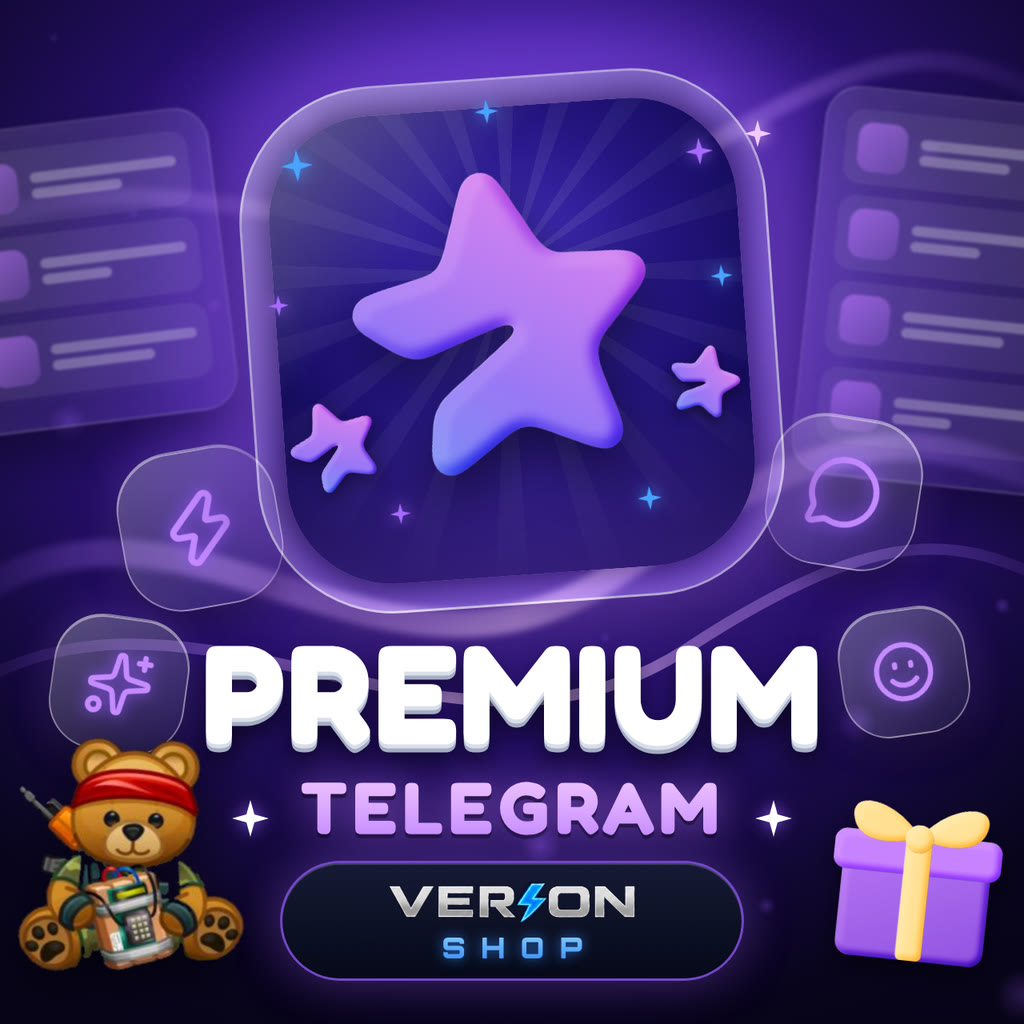
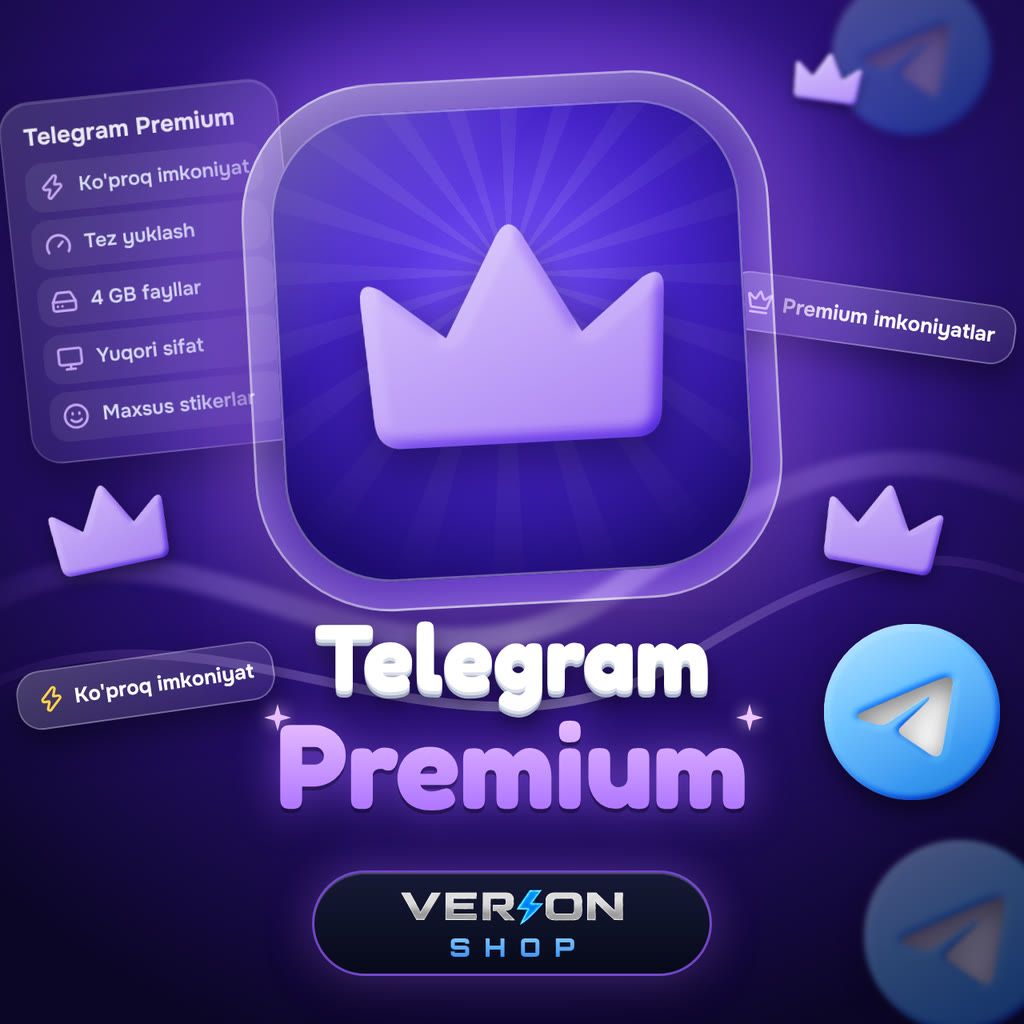
v3.28: Stars, Premium, Steam va Sovg'a muqovalari har biri o'z mavzusida alohida
Claude-Session: https://claude.ai/code/session_01CbtuoV2biNfcxKy98shqWf

diff --git a/README.md b/README.md
@@ -369,7 +369,7 @@ Ko'rinishi ilova mavzusidan qat'i nazar doim to'q: grafit fon, Unbounded (sarlav
 - **v3.19 — bosh sahifa kartalari «tirik»:** har bir bo'lim kartasida (a) rasm juda sekin yaqinlashadi, (b) 12 soniyalik aylanishda navbat bilan bitta kartada yumshoq och-ko'k yorug'lik chizig'i aylanib chiqadi (hamma kartada bir xil rang), (c) pastda yashil «Sotib olish» tugmasi (`ctaBtn()`: yaltirash, oq doira ichida harakatlanuvchi strelka, yonayotgan kartada halqa), (d) bosilganda bosilgan joydan to'lqin (`pripple`), (e) mahsulot soni yonida yashil «mavjud» nuqtasi. Nakrutka kartasida faqat mahsulot soni (yuklanguncha «…», xato bo'lsa eski izoh; `NkHomeFail`). Hammasi faqat `transform`/`opacity`; «Kamroq harakat» (`data-reduce-motion`), `prefers-reduced-motion` va `.lite` rejimida o'chadi (ilgari bu ro'yxat keyingi `@media` qoidasi bilan qo'shilib qolib, sozlama ishlamas edi — tuzatildi). Bo'lim kartalarining rasmlari (1024×1024) admin paneldan ✏ orqali yuklanadi.
 - **v3.20 — Telegram Premium: kimga olishni tanlash + «Balans yetarli emas» oynasi:** `fulfill:"fragment_premium"` mahsulotlari endi alohida oqim (`openPremiumBuy`) orqali sotiladi: tepada Premium kartasi, `@USERNAME` + «Tekshirish» (`/api/fragment/check-user`, «O'zimga» tugmasi), tekshirilgach yashil karta (ism, @username, «O'zgartirish»); qabul qiluvchida Premium allaqachon bo'lsa — sariq ogohlantirish va xarid bloklanadi; paketlar (3/6/12 oy) kartochkalarda tanlanadi. Xarid yangi `POST /api/buy-premium {itemId, username}` orqali: eski `/api/buy` Premium'ni faqat xaridorning o'ziga yuborar edi. Pul `reserveBalance` bilan band qilinadi, Fragment aniq rad etsa qaytariladi, aloqa uzilsa buyurtma «kutilmoqda» bo'ladi; «allaqachon Premium» javobi `409 already_premium` (adminga signal ketmaydi). Telegram bo'limida bir nechta Premium paketi BITTA «Telegram Premium» kartasiga jamlanadi (`productGridHTML`). Balans yetmasa hamma xarid oqimlarida (Premium, Stars, sovg'a, oddiy mahsulot) bitta oyna chiqadi (`openNeedBalance`): mahsulot narxi / balans / yetishmaydi + pastda «Yopish» va «Balansni to'ldirish» (to'lov sahifasi yetishmagan summa bilan ochiladi). Mahsulot oynalari endi to'liq ekranli sahifa (`openSheet(inner,backFn,{full:true})`: tepada «Orqaga», pastda qotgan harakat paneli `.fbar`): oddiy mahsulot, tasdiqlash, Stars, sovg'a, Premium va o'yin tasdiqlash. «Balans yetarli emas» endi mustaqil qatlam (`#nbOv`, `openNeedBalance(price)`): sahifa ostida joyida qoladi; oddiy mahsulot, o'yin, Stars, sovg'a, Premium, Nakrutka, Steam, virtual raqam va skinlarda bir xil chiqadi. Stars, Premium va sovg'ada «O'zimga» ingichka tugma (`.selfBtn`, `selfBtnHTML`). Premium paketlari katalogda bo'lishi uchun admin «Oddiy mahsulot» → «Yetkazish turi: Avto-Premium (Fragment)» bilan 3/6/12 oylik mahsulot qo'shadi.
 - **v3.22 — tayyor mahsulot muqovalari:** `assets/cover-*.jpg` (1024×1024; Stars, Premium, Sovg'alar, Virtual raqam, Steam, Gemini Pro, CS2, Dota 2, Rust) — bitta uslubda (shisha plitka, 3D markaziy narsa, ikki rangli sarlavha, pastda VERION SHOP). Admin rasm qo'ymagan joylarda ilova ularni o'zi ko'rsatadi: Virtual raqam, Steam, CS2/Dota 2/Rust kartalari (`DEF_COVER`, `cardImg()`; admin qo'ygan rasm doim ustun — `cardImgSet()`), Stars (`fragment_stars_custom`) va Premium (`fragment_premium`) mahsulot plitkasi (`tileHTML`). Admin qo'ygan rasm bo'lsa o'sha ko'rinadi: yangi muqovani almashtirish uchun mahsulotdagi ✏ → rasm. Muqovalar ilova ichidagi haqiqiy ekran (Virtual raqam telefon ichida), rasmiy Stars/Steam/Gemini belgilari va 3D emoji bilan yasalgan, tashqi servislarsiz.
-- **v3.23 — bo'lim kartalari va /start rasmi yangi uslubda:** `assets/cover-cat-{obuna,oyinlar,telegram,nakrutka}.jpg` (haqiqiy ilova belgilari shisha plitkada) — bosh sahifadagi bo'lim kartasiga admin rasm qo'ymagan bo'lsa shu chiqadi (`catDefCover`); admin qo'ygan rasm ustun. Eski rasm (matni kesilib qolgan) o'rniga yangisini qo'yish: Mahsulotlar → «🗂 Bo'limlar: nomi va rasmi» → rasm yonidagi ✕ (tayyor muqova o'zi chiqadi) yoki `cover-cat-*.jpg` ni yuklash. `assets/start-banner.png` (botdagi /start rasmi) shu uslubga o'tkazildi (server uni `size-mtime` bo'yicha qayta yuklaydi). Ismi emoji bilan boshlangan foydalanuvchining avatar harfi «�» bo'lib chiqmaydi (`firstCh`). Muqovalar skinlar bilan bir xil yasash usulida: lenta endi sarlavhani kesib o'tmaydi. Mahsulot sahifasining tepasidagi rasm endi kesilmaydi: butun muqova ko'rinadi, orqasida uning xira nusxasi (`.bgb`). Premium muqovasi rasmiy Telegram Premium yulduzi shaklida (swoosh) va rasmiy binafsha→pushti gradient bilan, Sovg'alar muqovasida haqiqiy Telegram sovg'asi (ayiqcha), Stars'da rasmiy sharlar uslubi. Steam va Gemini muqovalari rasmiy belgilar bilan (Steam: ko'k gradientli disk + oq belgi, `assets/steam.svg` — Steam sahifasining tepasida ham shu; Gemini: rasmiy shakl va ranglar). Muqovalardan emoji olib tashlandi: pastki burchaklarda haqiqiy Telegram sovg'a ayiqchasi va o'zim chizgan 3D sovg'a qutilari/yuraklar/sharlar/suhbat bulutlari (SVG shakl + yorug'lik filtri), Gemini'da rasmiy yulduzcha nusxalari. «Tayyor muqovalar» sozlamasi (standart: yoqilgan; `extras.covers`, admin: Mahsulotlar → 🖼): yoqilgan bo'lsa ilovaga o'rnatilgan muqovalar admin yuklagan rasmlardan USTUN (Stars, Premium, Sovg'a, Gemini Pro, Virtual raqam, Steam, skinlar va 4 ta bo'lim kartasi); o'chirilsa — admin rasmi ko'rinadi (`ownCovers()`, `builtinCoverFor()`). Botning standart /start matni tuzilgan ro'yxatga o'tkazildi (admin o'z matnini yozgan bo'lsa — o'sha ishlaydi).
+- **v3.23 — bo'lim kartalari va /start rasmi yangi uslubda:** `assets/cover-cat-{obuna,oyinlar,telegram,nakrutka}.jpg` (haqiqiy ilova belgilari shisha plitkada) — bosh sahifadagi bo'lim kartasiga admin rasm qo'ymagan bo'lsa shu chiqadi (`catDefCover`); admin qo'ygan rasm ustun. Eski rasm (matni kesilib qolgan) o'rniga yangisini qo'yish: Mahsulotlar → «🗂 Bo'limlar: nomi va rasmi» → rasm yonidagi ✕ (tayyor muqova o'zi chiqadi) yoki `cover-cat-*.jpg` ni yuklash. `assets/start-banner.png` (botdagi /start rasmi) shu uslubga o'tkazildi (server uni `size-mtime` bo'yicha qayta yuklaydi). Ismi emoji bilan boshlangan foydalanuvchining avatar harfi «�» bo'lib chiqmaydi (`firstCh`). Muqovalar skinlar bilan bir xil yasash usulida: lenta endi sarlavhani kesib o'tmaydi. Mahsulot sahifasining tepasidagi rasm endi kesilmaydi: butun muqova ko'rinadi, orqasida uning xira nusxasi (`.bgb`). Premium muqovasi rasmiy Telegram Premium yulduzi shaklida (swoosh) va rasmiy binafsha→pushti gradient bilan, Sovg'alar muqovasida haqiqiy Telegram sovg'asi (ayiqcha), Stars'da rasmiy sharlar uslubi. Steam va Gemini muqovalari rasmiy belgilar bilan (Steam: ko'k gradientli disk + oq belgi, `assets/steam.svg` — Steam sahifasining tepasida ham shu; Gemini: rasmiy shakl va ranglar). Muqovalardan emoji olib tashlandi: pastki burchaklarda haqiqiy Telegram sovg'a ayiqchasi va o'zim chizgan 3D sovg'a qutilari/yuraklar/sharlar/suhbat bulutlari (SVG shakl + yorug'lik filtri), Gemini'da rasmiy yulduzcha nusxalari. «Tayyor muqovalar» sozlamasi (standart: yoqilgan; `extras.covers`, admin: Mahsulotlar → 🖼): yoqilgan bo'lsa ilovaga o'rnatilgan muqovalar admin yuklagan rasmlardan USTUN (Stars, Premium, Sovg'a, Gemini Pro, Virtual raqam, Steam, skinlar va 4 ta bo'lim kartasi); o'chirilsa — admin rasmi ko'rinadi (`ownCovers()`, `builtinCoverFor()`). Stars, Premium, Steam va Sovg'a muqovalari har biri o'z mavzusida alohida: o'qiladigan shisha panel (Stars paketlari, Premium imkoniyatlari, Steam menyusi, sovg'alar to'plami), mavzuga mos 3D narsalar (yulduzlar, tojlar, o'yin tutqichi va Steam o'yin rasmlari, ayiqcha), ikki qatorli sarlavha «Telegram / Stars». Botning standart /start matni tuzilgan ro'yxatga o'tkazildi (admin o'z matnini yozgan bo'lsa — o'sha ishlaydi).
 - **v3.24 — xarid oynalari: har bir mahsulotga mos, ixcham va aniq dizayn:** umumiy bo'laklar (`pheadHTML` ixcham sarlavha: kichik rasm + nom + narx/belgi, `pstepHTML` raqamli bosqichlar, `descHTML` tartibli tavsif, `.rcpt` chek kartasi). Oddiy mahsulot/obuna: tavsif qismlarga bo'linadi (✅ ro'yxat, ⚠ sariq ogohlantirish, 📌 eslatma), qolgan soni yashil belgi. Stars: 1) qabul qiluvchi 2) miqdor + tez tanlov tugmalari (50…2500, narxi bilan). Premium: paketlar qator bo'lib, oyiga narxi va tejash foizi (−22%) bilan, sarlavhada rasmiy Premium muqovasi. Sovg'a: 1) kimga 2) sharh; sovg'alar sahifasida «Sotib olish» pastki menyu ustida qotib turadi. Tasdiqlash oynalari (oddiy mahsulot va o'yin) bitta «chek» ko'rinishida: narx, balans, qoladi/yetmaydi. O'yin paketlarida «2x»/«HIT» belgisi va nom kesilmaydi. Nakrutka buyurtmasi to'liq ekran (havola, miqdor, jami, pastda tugma). Steam sahifasi ixcham (summa tugmalari birinchi ekranda). Mantiq va identifikatorlar (#stBuy, #pmBuy, #afterLine, data-pk…) o'zgarmagan.
 - **Profil:** yon panel — avatar (80px), ism, @username · ID, ko'k balans kartasi va «Balansni to'ldirish», menyu (Profil, Buyurtmalar — jarayondagilar soni bilan, Sevimli skinlar, Steam savdo takliflari, Qanday ishlaydi?, Qo'llab-quvvatlash), «Asosiy do'konga qaytish»; asosiy qism — statistika (Xaridlar / Yetkazildi / Sevimli), jami xarid summasi, «Steam trade havola» bloki (havola maydoni, nusxalash, maslahat, «Havolani kiritish/o'zgartirish»), Steam akkaunt kartasi, Steam Guard eslatmalari.
 - **Buyurtmalar:** xulosa satri (jami xaridlar, summa, jarayondagilar), tablar guruhi (Hammasi / Jarayonda / Yetkazildi / Bekor — soni bilan), xarid kartochkalari (rasm, holat kodi, nom, #raqam · o'yin · sana · float, narx, holat belgisi — jarayonda ko'k, mijozdan harakat kutilsa yoki trade-lock'da sariq, yetkazilgan yashil, bekor qizil; izoh va «Taklifni ochish» / «Bekor qilish (3%)»). Kartochka bosilsa — **buyurtma tafsilotlari** oynasi: 4:3 rasm, nom, ko'k narx, rangli holat izohi, «Steam'da qabul qilish», ma'lumotlar jadvali (holat, sana, o'yin, holati, float, Steam taklif raqami).
